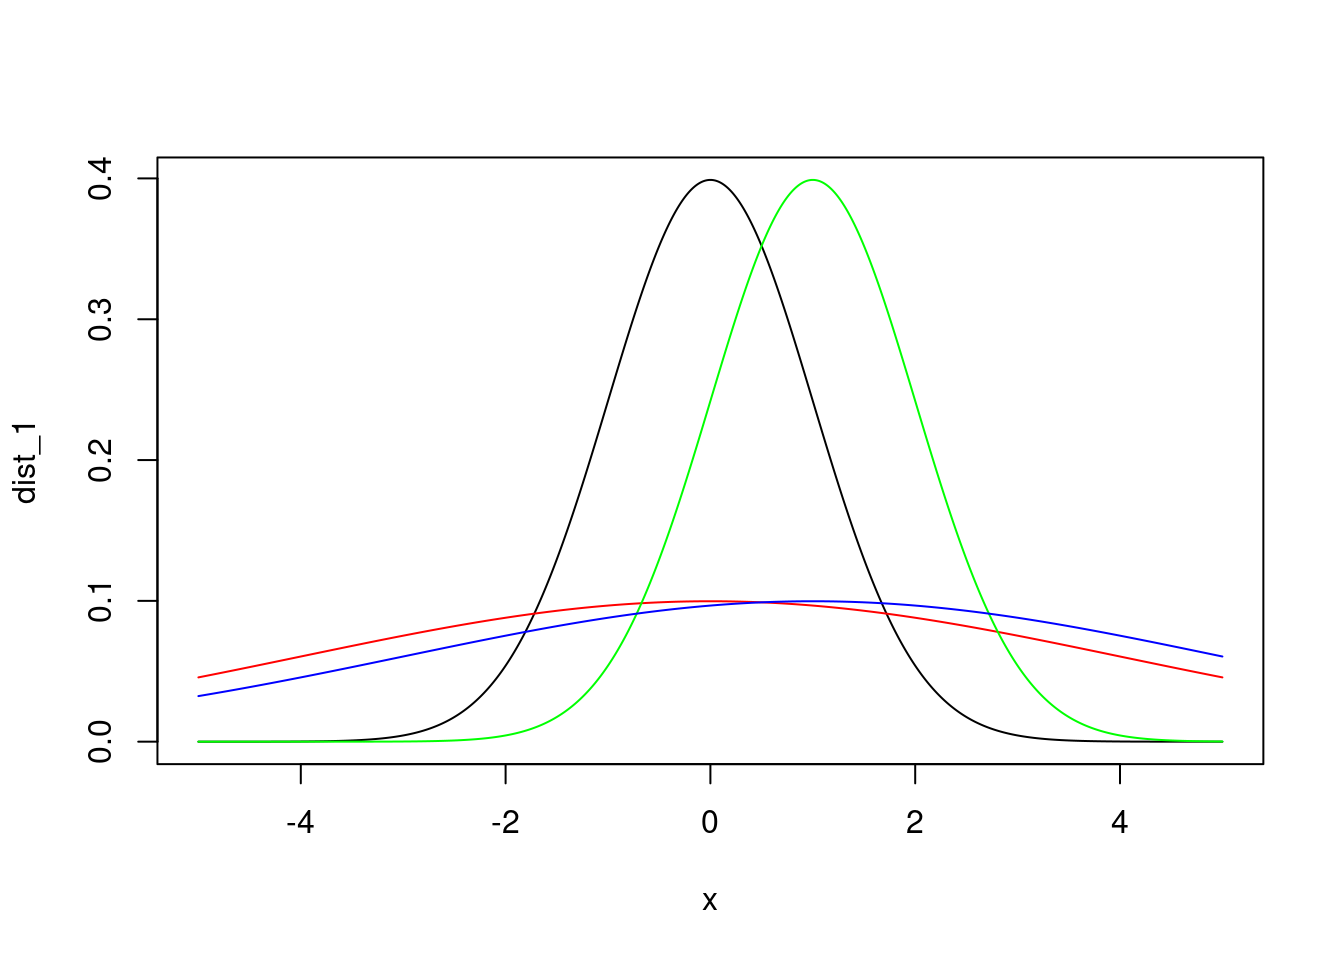
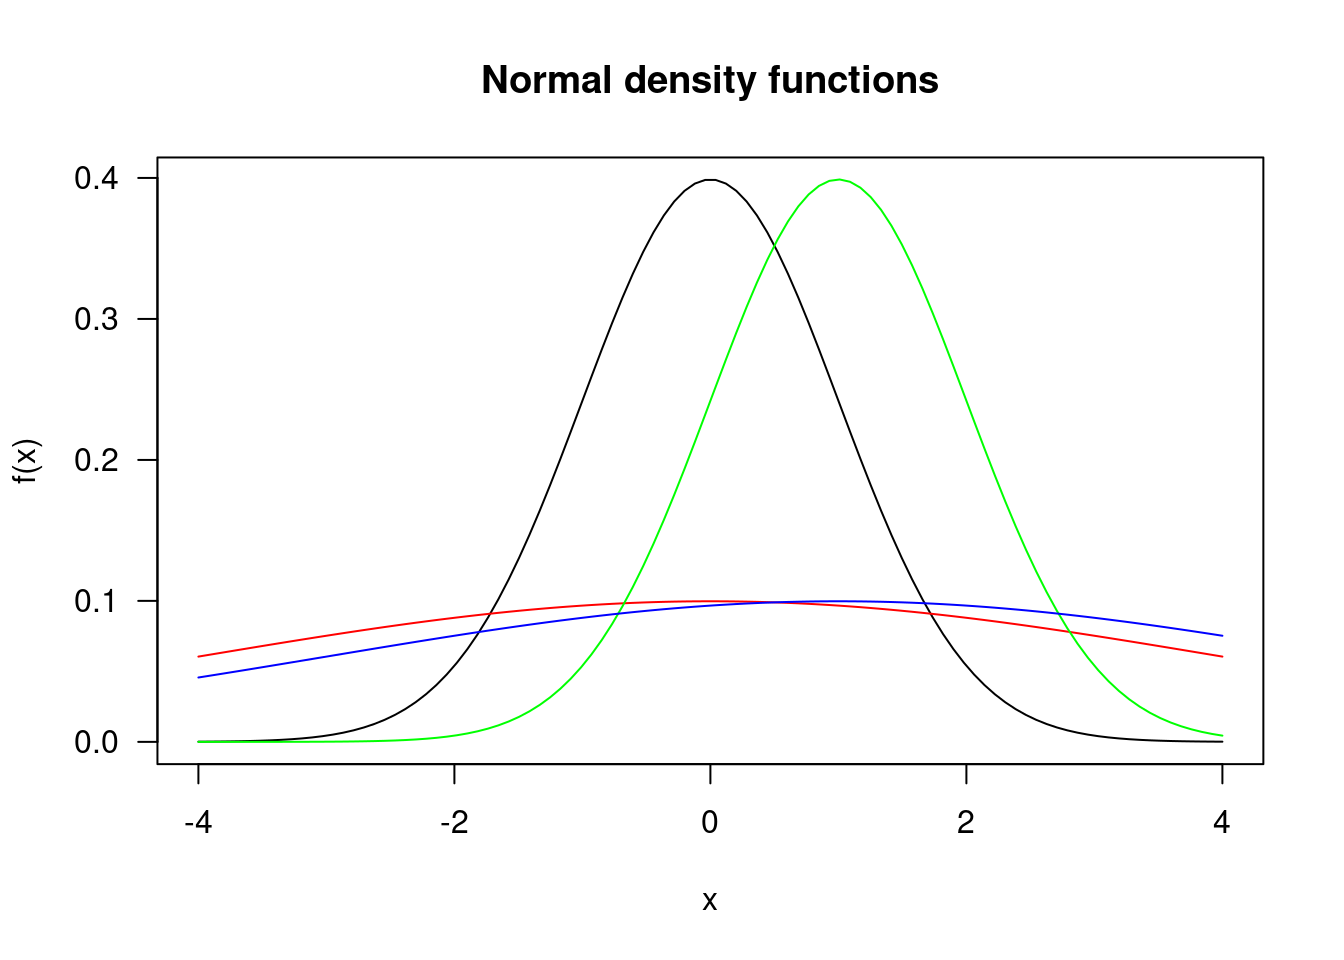
commit equations

diff --git a/docs/index.html b/docs/index.html
@@ -24,7 +24,7 @@
 <meta name="author" content="Katherine Wilson" />
 
 
-<meta name="date" content="2022-01-18" />
+<meta name="date" content="2022-01-19" />
 
   <meta name="viewport" content="width=device-width, initial-scale=1" />
   <meta name="apple-mobile-web-app-capable" content="yes" />
@@ -165,7 +165,7 @@ code span.wa { color: #60a0b0; font-weight: bold; font-style: italic; } /* Warni
 <div id="header">
 <h1 class="title">NonParametric Stats</h1>
 <p class="author"><em>Katherine Wilson</em></p>
-<p class="date"><em>2022-01-18</em></p>
+<p class="date"><em>2022-01-19</em></p>
 </div>
 <div id="hypothesis-testing" class="section level1" number="1">
 <h1><span class="header-section-number">1</span> Hypothesis Testing</h1>
@@ -173,23 +173,113 @@ code span.wa { color: #60a0b0; font-weight: bold; font-style: italic; } /* Warni
 X \sim N(\mu,\sigma^2), f(x) = \frac{1}{\sqrt{2\pi\sigma}}e-\frac{(x-\mu)^2}{2\sigma^2}, F(x) = \int_{-\infty}^{x} \frac{1}{\sqrt{2\pi\sigma}}e\frac{-(t-\mu)^2}{2\sigma^2}dt
 \end{equation}\]</span></p>
 <p><strong>Normal Distributions</strong></p>
-<div class="sourceCode" id="cb1"><pre class="sourceCode r"><code class="sourceCode r"><span id="cb1-1"><a href="index.html#cb1-1" aria-hidden="true" tabindex="-1"></a>x <span class="ot">&lt;-</span> <span class="fu">seq</span>(<span class="sc">-</span><span class="dv">5</span>,<span class="dv">5</span>, <span class="at">length=</span><span class="dv">1000</span>)</span>
-<span id="cb1-2"><a href="index.html#cb1-2" aria-hidden="true" tabindex="-1"></a>dist_1 <span class="ot">&lt;-</span> <span class="fu">dnorm</span>(x, <span class="at">mean=</span><span class="dv">0</span>, <span class="at">sd=</span><span class="dv">1</span>)</span>
-<span id="cb1-3"><a href="index.html#cb1-3" aria-hidden="true" tabindex="-1"></a>dist_2 <span class="ot">&lt;-</span> <span class="fu">dnorm</span>(x, <span class="at">mean=</span><span class="dv">0</span>, <span class="at">sd=</span><span class="dv">4</span>)</span>
-<span id="cb1-4"><a href="index.html#cb1-4" aria-hidden="true" tabindex="-1"></a>dist_3 <span class="ot">&lt;-</span> <span class="fu">dnorm</span>(x, <span class="at">mean=</span><span class="dv">1</span>, <span class="at">sd=</span><span class="dv">1</span>)</span>
-<span id="cb1-5"><a href="index.html#cb1-5" aria-hidden="true" tabindex="-1"></a>dist_4 <span class="ot">&lt;-</span> <span class="fu">dnorm</span>(x, <span class="at">mean=</span><span class="dv">1</span>, <span class="at">sd =</span><span class="dv">4</span>)</span>
-<span id="cb1-6"><a href="index.html#cb1-6" aria-hidden="true" tabindex="-1"></a><span class="fu">plot</span>(x, dist_1, <span class="at">type=</span><span class="st">&quot;l&quot;</span>, <span class="at">lwd=</span><span class="dv">1</span>, <span class="at">col =</span> <span class="st">&quot;black&quot;</span>)</span>
-<span id="cb1-7"><a href="index.html#cb1-7" aria-hidden="true" tabindex="-1"></a><span class="fu">lines</span>(x, dist_2, <span class="at">type =</span> <span class="st">&quot;l&quot;</span>, <span class="at">col =</span> <span class="st">&quot;red&quot;</span>)</span>
-<span id="cb1-8"><a href="index.html#cb1-8" aria-hidden="true" tabindex="-1"></a><span class="fu">lines</span>(x, dist_3, <span class="at">type =</span> <span class="st">&quot;l&quot;</span>, <span class="at">col =</span> <span class="st">&quot;green&quot;</span>)</span>
-<span id="cb1-9"><a href="index.html#cb1-9" aria-hidden="true" tabindex="-1"></a><span class="fu">lines</span>(x, dist_4, <span class="at">type =</span> <span class="st">&quot;l&quot;</span>, <span class="at">col =</span> <span class="st">&quot;blue&quot;</span>)</span></code></pre></div>
+<div class="sourceCode" id="cb1"><pre class="sourceCode r"><code class="sourceCode r"><span id="cb1-1"><a href="index.html#cb1-1" aria-hidden="true" tabindex="-1"></a>a <span class="ot">=</span><span class="dv">0</span></span>
+<span id="cb1-2"><a href="index.html#cb1-2" aria-hidden="true" tabindex="-1"></a>b<span class="ot">=</span><span class="dv">1</span></span>
+<span id="cb1-3"><a href="index.html#cb1-3" aria-hidden="true" tabindex="-1"></a>lx<span class="ot">=</span><span class="dv">100</span></span>
+<span id="cb1-4"><a href="index.html#cb1-4" aria-hidden="true" tabindex="-1"></a>x<span class="ot">=</span><span class="fu">seq</span>(<span class="sc">-</span><span class="dv">4</span>,<span class="dv">4</span>,<span class="at">length=</span>lx)</span>
+<span id="cb1-5"><a href="index.html#cb1-5" aria-hidden="true" tabindex="-1"></a>fx <span class="ot">=</span> <span class="fu">dnorm</span>(x,a,b)</span>
+<span id="cb1-6"><a href="index.html#cb1-6" aria-hidden="true" tabindex="-1"></a>fx</span></code></pre></div>
+<pre><code>##   [1] 0.0001338302 0.0001842953 0.0002521381 0.0003427099 0.0004627846
+##   [6] 0.0006208623 0.0008275148 0.0010957722 0.0014415473 0.0018840898
+##  [11] 0.0024464615 0.0031560163 0.0040448664 0.0051503080 0.0065151783
+##  [16] 0.0081881065 0.0102236211 0.0126820683 0.0156292995 0.0191360817
+##  [21] 0.0232771927 0.0281301641 0.0337736510 0.0402854146 0.0477399263
+##  [26] 0.0562056185 0.0657418315 0.0763955298 0.0881978860 0.1011608535
+##  [31] 0.1152738702 0.1305008512 0.1467776382 0.1640100747 0.1820728700
+##  [36] 0.2008093962 0.2200325354 0.2395266587 0.2590507715 0.2783428081
+##  [41] 0.2971250031 0.3151102096 0.3320089800 0.3475371752 0.3614238299
+##  [46] 0.3734189738 0.3833010942 0.3908839312 0.3960223134 0.3986167793
+##  [51] 0.3986167793 0.3960223134 0.3908839312 0.3833010942 0.3734189738
+##  [56] 0.3614238299 0.3475371752 0.3320089800 0.3151102096 0.2971250031
+##  [61] 0.2783428081 0.2590507715 0.2395266587 0.2200325354 0.2008093962
+##  [66] 0.1820728700 0.1640100747 0.1467776382 0.1305008512 0.1152738702
+##  [71] 0.1011608535 0.0881978860 0.0763955298 0.0657418315 0.0562056185
+##  [76] 0.0477399263 0.0402854146 0.0337736510 0.0281301641 0.0232771927
+##  [81] 0.0191360817 0.0156292995 0.0126820683 0.0102236211 0.0081881065
+##  [86] 0.0065151783 0.0051503080 0.0040448664 0.0031560163 0.0024464615
+##  [91] 0.0018840898 0.0014415473 0.0010957722 0.0008275148 0.0006208623
+##  [96] 0.0004627846 0.0003427099 0.0002521381 0.0001842953 0.0001338302</code></pre>
+<div class="sourceCode" id="cb3"><pre class="sourceCode r"><code class="sourceCode r"><span id="cb3-1"><a href="index.html#cb3-1" aria-hidden="true" tabindex="-1"></a>bx <span class="ot">=</span> <span class="dv">1</span></span>
+<span id="cb3-2"><a href="index.html#cb3-2" aria-hidden="true" tabindex="-1"></a>dbx<span class="ot">=</span><span class="fu">dnorm</span>(bx,a,b)</span>
+<span id="cb3-3"><a href="index.html#cb3-3" aria-hidden="true" tabindex="-1"></a>dbx</span></code></pre></div>
+<pre><code>## [1] 0.2419707</code></pre>
+<div class="sourceCode" id="cb5"><pre class="sourceCode r"><code class="sourceCode r"><span id="cb5-1"><a href="index.html#cb5-1" aria-hidden="true" tabindex="-1"></a><span class="fu">plot</span>(x,fx, <span class="at">type =</span> <span class="st">&quot;l&quot;</span>, <span class="at">xlab =</span> <span class="st">&quot;x&quot;</span>, <span class="at">ylab =</span> <span class="st">&quot;f(x)&quot;</span>, <span class="at">main =</span> <span class="st">&quot;Normal density functions&quot;</span>,</span>
+<span id="cb5-2"><a href="index.html#cb5-2" aria-hidden="true" tabindex="-1"></a>     <span class="at">las=</span> <span class="dv">1</span>)</span>
+<span id="cb5-3"><a href="index.html#cb5-3" aria-hidden="true" tabindex="-1"></a>dist_2 <span class="ot">&lt;-</span> <span class="fu">dnorm</span>(x, <span class="at">mean=</span><span class="dv">0</span>, <span class="at">sd=</span><span class="dv">4</span>)</span>
+<span id="cb5-4"><a href="index.html#cb5-4" aria-hidden="true" tabindex="-1"></a>dist_3 <span class="ot">&lt;-</span> <span class="fu">dnorm</span>(x, <span class="at">mean=</span><span class="dv">1</span>, <span class="at">sd=</span><span class="dv">1</span>)</span>
+<span id="cb5-5"><a href="index.html#cb5-5" aria-hidden="true" tabindex="-1"></a>dist_4 <span class="ot">&lt;-</span> <span class="fu">dnorm</span>(x, <span class="at">mean=</span><span class="dv">1</span>, <span class="at">sd =</span><span class="dv">4</span>)</span>
+<span id="cb5-6"><a href="index.html#cb5-6" aria-hidden="true" tabindex="-1"></a><span class="fu">lines</span>(x, dist_2, <span class="at">type =</span> <span class="st">&quot;l&quot;</span>, <span class="at">col =</span> <span class="st">&quot;red&quot;</span>)</span>
+<span id="cb5-7"><a href="index.html#cb5-7" aria-hidden="true" tabindex="-1"></a><span class="fu">lines</span>(x, dist_3, <span class="at">type =</span> <span class="st">&quot;l&quot;</span>, <span class="at">col =</span> <span class="st">&quot;green&quot;</span>)</span>
+<span id="cb5-8"><a href="index.html#cb5-8" aria-hidden="true" tabindex="-1"></a><span class="fu">lines</span>(x, dist_4, <span class="at">type =</span> <span class="st">&quot;l&quot;</span>, <span class="at">col =</span> <span class="st">&quot;blue&quot;</span>)</span></code></pre></div>
 <p><img src="bookdownproj_files/figure-html/unnamed-chunk-1-1.png" width="672" /></p>
 <p><span class="math display">\[\begin{equation}
 F(x) = P(X\le x) = 1 - P(X&gt;x)
 \end{equation}\]</span></p>
-<div class="sourceCode" id="cb2"><pre class="sourceCode r"><code class="sourceCode r"><span id="cb2-1"><a href="index.html#cb2-1" aria-hidden="true" tabindex="-1"></a><span class="fu">dnorm</span>(<span class="at">x=</span><span class="dv">0</span>, <span class="at">mean=</span><span class="dv">0</span>, <span class="at">sd=</span><span class="dv">1</span>)</span></code></pre></div>
-<pre><code>## [1] 0.3989423</code></pre>
-<div class="sourceCode" id="cb4"><pre class="sourceCode r"><code class="sourceCode r"><span id="cb4-1"><a href="index.html#cb4-1" aria-hidden="true" tabindex="-1"></a><span class="fu">dnorm</span>(<span class="dv">0</span>,<span class="dv">0</span>,<span class="dv">2</span>)</span></code></pre></div>
-<pre><code>## [1] 0.1994711</code></pre>
+<p>when lower.tail == TRUE, probabiltiies are p[X&lt;x]</p>
+<pre class="undefined"><code>## density under the curve
+dnorm(x=0, mean=0, sd=1)
+dnorm(0,0,2)
+dnorm(0,1,1)
+dnorm(0,1,2)
+## probability
+pnorm(0,0,1)
+pnorm(0,0,2)
+pnorm(0,1,1)
+pnorm(0,1,2)
+</code></pre>
+<div class="sourceCode" id="cb7"><pre class="sourceCode r"><code class="sourceCode r"><span id="cb7-1"><a href="index.html#cb7-1" aria-hidden="true" tabindex="-1"></a>a<span class="ot">=</span><span class="dv">0</span></span>
+<span id="cb7-2"><a href="index.html#cb7-2" aria-hidden="true" tabindex="-1"></a>b<span class="ot">=</span><span class="dv">1</span></span>
+<span id="cb7-3"><a href="index.html#cb7-3" aria-hidden="true" tabindex="-1"></a>lx<span class="ot">=</span><span class="dv">100</span></span>
+<span id="cb7-4"><a href="index.html#cb7-4" aria-hidden="true" tabindex="-1"></a>x<span class="ot">=</span><span class="fu">seq</span>(<span class="sc">-</span><span class="dv">4</span>,<span class="dv">4</span>,<span class="at">length=</span>lx)</span>
+<span id="cb7-5"><a href="index.html#cb7-5" aria-hidden="true" tabindex="-1"></a>fx<span class="ot">=</span><span class="fu">dnorm</span>(x,a,b)</span>
+<span id="cb7-6"><a href="index.html#cb7-6" aria-hidden="true" tabindex="-1"></a></span>
+<span id="cb7-7"><a href="index.html#cb7-7" aria-hidden="true" tabindex="-1"></a>bx<span class="ot">=</span><span class="dv">1</span></span>
+<span id="cb7-8"><a href="index.html#cb7-8" aria-hidden="true" tabindex="-1"></a>dbx<span class="ot">=</span><span class="fu">dnorm</span>(bx,a,b)</span>
+<span id="cb7-9"><a href="index.html#cb7-9" aria-hidden="true" tabindex="-1"></a></span>
+<span id="cb7-10"><a href="index.html#cb7-10" aria-hidden="true" tabindex="-1"></a><span class="fu">plot</span>(x,fx,<span class="at">type=</span><span class="st">&quot;l&quot;</span>,<span class="at">lwd=</span><span class="dv">2</span>,<span class="at">xlab=</span><span class="st">&quot;x&quot;</span>,<span class="at">ylab=</span><span class="st">&quot;Density&quot;</span>,<span class="at">main=</span><span class="st">&quot;N(0,1)&quot;</span>,<span class="at">las=</span><span class="dv">1</span>,<span class="at">xaxt=</span><span class="st">&quot;n&quot;</span>)</span>
+<span id="cb7-11"><a href="index.html#cb7-11" aria-hidden="true" tabindex="-1"></a><span class="fu">segments</span>(bx,<span class="dv">0</span>,bx,dbx,<span class="at">lty=</span><span class="dv">3</span>)</span>
+<span id="cb7-12"><a href="index.html#cb7-12" aria-hidden="true" tabindex="-1"></a>sx<span class="ot">=</span><span class="fu">seq</span>(<span class="sc">-</span><span class="dv">4</span>,bx,<span class="at">length=</span>lx)</span>
+<span id="cb7-13"><a href="index.html#cb7-13" aria-hidden="true" tabindex="-1"></a><span class="fu">polygon</span>(<span class="fu">c</span>(sx,<span class="fu">rev</span>(sx)),<span class="fu">c</span>(<span class="fu">dnorm</span>(sx,a,b),<span class="fu">rep</span>(<span class="dv">0</span>,lx)),<span class="at">density=</span><span class="dv">2</span>,<span class="at">border=</span><span class="cn">NA</span>,<span class="at">lty=</span><span class="dv">3</span>)</span>
+<span id="cb7-14"><a href="index.html#cb7-14" aria-hidden="true" tabindex="-1"></a></span>
+<span id="cb7-15"><a href="index.html#cb7-15" aria-hidden="true" tabindex="-1"></a><span class="fu">text</span>(<span class="sc">-</span><span class="fl">0.5</span>,<span class="fl">0.1</span>,<span class="fu">expression</span>(<span class="fu">P</span>(X<span class="sc">&lt;=</span>z[<span class="dv">1</span><span class="sc">-</span>alpha])<span class="sc">==</span><span class="dv">1</span><span class="sc">-</span>alpha))</span>
+<span id="cb7-16"><a href="index.html#cb7-16" aria-hidden="true" tabindex="-1"></a><span class="fu">abline</span>(<span class="at">h=</span><span class="dv">0</span>,<span class="at">lty=</span><span class="dv">3</span>)</span>
+<span id="cb7-17"><a href="index.html#cb7-17" aria-hidden="true" tabindex="-1"></a><span class="fu">axis</span>(<span class="dv">1</span>,<span class="at">at=</span>bx,<span class="at">label=</span><span class="fu">expression</span>(z[<span class="dv">1</span><span class="sc">-</span>alpha]))</span>
+<span id="cb7-18"><a href="index.html#cb7-18" aria-hidden="true" tabindex="-1"></a></span>
+<span id="cb7-19"><a href="index.html#cb7-19" aria-hidden="true" tabindex="-1"></a>sx<span class="ot">=</span><span class="fu">seq</span>(bx,<span class="dv">4</span>,<span class="at">length=</span>lx)</span>
+<span id="cb7-20"><a href="index.html#cb7-20" aria-hidden="true" tabindex="-1"></a><span class="fu">polygon</span>(<span class="fu">c</span>(sx,<span class="fu">rev</span>(sx)),<span class="fu">c</span>(<span class="fu">dnorm</span>(sx,a,b),<span class="fu">rep</span>(<span class="dv">0</span>,lx)),<span class="at">density=</span><span class="dv">3</span>,<span class="at">border=</span><span class="cn">NA</span>,</span>
+<span id="cb7-21"><a href="index.html#cb7-21" aria-hidden="true" tabindex="-1"></a><span class="at">angle=</span><span class="sc">-</span><span class="dv">45</span>,<span class="at">lty=</span><span class="dv">3</span>)</span>
+<span id="cb7-22"><a href="index.html#cb7-22" aria-hidden="true" tabindex="-1"></a><span class="fu">text</span>(<span class="fl">2.5</span>,<span class="fl">0.1</span>,<span class="fu">expression</span>(<span class="fu">P</span>(X<span class="sc">&gt;</span>z[<span class="dv">1</span><span class="sc">-</span>alpha])<span class="sc">==</span>alpha))</span></code></pre></div>
+<p><img src="bookdownproj_files/figure-html/unnamed-chunk-3-1.png" width="672" /></p>
+<p><strong>Power</strong></p>
+<p>Probability of rejecting <span class="math inline">\(H_0\)</span> when it is true is type I error (falsely reject), aka significance of the test aka <span class="math inline">\(\alpha\)</span>. Probability of not reject H_0 when it is false is a type II error, <span class="math inline">\(\beta\)</span>. Power of test is <span class="math inline">\(1-\beta\)</span>.</p>
+<p><strong>Confidence Intervals</strong></p>
+<p>Confidence set with a confidence coefficient of <span class="math inline">\(1-\alpha\)</span> is the set.</p>
+<p><strong>Parametric Methods</strong></p>
+<p>Parametric distributions qith populations</p>
+<p><span class="math display">\[\begin{equation}
+N(\mu, \sigma^2),binomial(n,p)
+\end{equation}\]</span></p>
+<div class="sourceCode" id="cb8"><pre class="sourceCode r"><code class="sourceCode r"><span id="cb8-1"><a href="index.html#cb8-1" aria-hidden="true" tabindex="-1"></a>n<span class="ot">=</span><span class="dv">30</span></span>
+<span id="cb8-2"><a href="index.html#cb8-2" aria-hidden="true" tabindex="-1"></a>x<span class="ot">=</span><span class="fu">rnorm</span>(n,<span class="at">mean=</span><span class="dv">0</span>,<span class="at">sd=</span><span class="dv">1</span>)</span>
+<span id="cb8-3"><a href="index.html#cb8-3" aria-hidden="true" tabindex="-1"></a><span class="fu">sort</span>(x)</span></code></pre></div>
+<pre><code>##  [1] -1.877529107 -1.797071215 -1.768705533 -1.363014203 -1.248630667
+##  [6] -1.242085933 -1.151953407 -0.820460938 -0.743315457 -0.457155310
+## [11] -0.326805921 -0.304780561 -0.134309652 -0.007030645  0.099313116
+## [16]  0.153559907  0.187111374  0.225744125  0.427586572  0.600469377
+## [21]  0.627458330  0.630439729  0.704010012  0.813410184  0.960661602
+## [26]  0.967466365  1.036644426  1.290539283  1.355981008  1.396956617</code></pre>
+<div class="sourceCode" id="cb10"><pre class="sourceCode r"><code class="sourceCode r"><span id="cb10-1"><a href="index.html#cb10-1" aria-hidden="true" tabindex="-1"></a>xbar<span class="ot">=</span><span class="fu">mean</span>(x)</span>
+<span id="cb10-2"><a href="index.html#cb10-2" aria-hidden="true" tabindex="-1"></a>sdx<span class="ot">=</span><span class="fu">sd</span>(x)</span></code></pre></div>
+<p><strong>One sided H_0</strong></p>
+<p><span class="math display">\[\begin{equation}
+H_0 : \mu = \mu_0 vs. H_1: \mu &gt; Mu_0\\
+T = \frac{\sqrt(x-\mu_0)}{\sigma} \sim t distribution with n-1 degrees of freedom \\
+Reject H_0 if t &gt; t_{n-1,1-\alpha} \\
+Type I error: \alpha = P_{\mu_o}(T&gt;t_{n-1,1-\alpha}) \\
+Acceptance region: T \le t_{n-1,1-\alpha}\\
+1- \alpha = P_{\mu_0}(\frac{\sqrt{n}(\bar{X}-\mu_0)}{\hat\sigma}) \le t_{n-1,1-\alpha}\\
+= P_{\mu_0}(\bar{X} - t_{n-1,1-\alpha}\frac{\hat\sigma}{\sqrt{n}} \le \mu_0)
+\end{equation}\]</span></p>
 
 </div>
             </section>

diff --git a/docs/404.html b/docs/404.html
@@ -24,7 +24,7 @@
 <meta name="author" content="Katherine Wilson" />
 
 
-<meta name="date" content="2022-01-18" />
+<meta name="date" content="2022-01-19" />
 
   <meta name="viewport" content="width=device-width, initial-scale=1" />
   <meta name="apple-mobile-web-app-capable" content="yes" />
@@ -55,6 +55,70 @@
 <script src="libs/anchor-sections-1.0.1/anchor-sections.js"></script>
 
 
+<style type="text/css">
+pre > code.sourceCode { white-space: pre; position: relative; }
+pre > code.sourceCode > span { display: inline-block; line-height: 1.25; }
+pre > code.sourceCode > span:empty { height: 1.2em; }
+.sourceCode { overflow: visible; }
+code.sourceCode > span { color: inherit; text-decoration: inherit; }
+pre.sourceCode { margin: 0; }
+@media screen {
+div.sourceCode { overflow: auto; }
+}
+@media print {
+pre > code.sourceCode { white-space: pre-wrap; }
+pre > code.sourceCode > span { text-indent: -5em; padding-left: 5em; }
+}
+pre.numberSource code
+  { counter-reset: source-line 0; }
+pre.numberSource code > span
+  { position: relative; left: -4em; counter-increment: source-line; }
+pre.numberSource code > span > a:first-child::before
+  { content: counter(source-line);
+    position: relative; left: -1em; text-align: right; vertical-align: baseline;
+    border: none; display: inline-block;
+    -webkit-touch-callout: none; -webkit-user-select: none;
+    -khtml-user-select: none; -moz-user-select: none;
+    -ms-user-select: none; user-select: none;
+    padding: 0 4px; width: 4em;
+    color: #aaaaaa;
+  }
+pre.numberSource { margin-left: 3em; border-left: 1px solid #aaaaaa;  padding-left: 4px; }
+div.sourceCode
+  {   }
+@media screen {
+pre > code.sourceCode > span > a:first-child::before { text-decoration: underline; }
+}
+code span.al { color: #ff0000; font-weight: bold; } /* Alert */
+code span.an { color: #60a0b0; font-weight: bold; font-style: italic; } /* Annotation */
+code span.at { color: #7d9029; } /* Attribute */
+code span.bn { color: #40a070; } /* BaseN */
+code span.bu { } /* BuiltIn */
+code span.cf { color: #007020; font-weight: bold; } /* ControlFlow */
+code span.ch { color: #4070a0; } /* Char */
+code span.cn { color: #880000; } /* Constant */
+code span.co { color: #60a0b0; font-style: italic; } /* Comment */
+code span.cv { color: #60a0b0; font-weight: bold; font-style: italic; } /* CommentVar */
+code span.do { color: #ba2121; font-style: italic; } /* Documentation */
+code span.dt { color: #902000; } /* DataType */
+code span.dv { color: #40a070; } /* DecVal */
+code span.er { color: #ff0000; font-weight: bold; } /* Error */
+code span.ex { } /* Extension */
+code span.fl { color: #40a070; } /* Float */
+code span.fu { color: #06287e; } /* Function */
+code span.im { } /* Import */
+code span.in { color: #60a0b0; font-weight: bold; font-style: italic; } /* Information */
+code span.kw { color: #007020; font-weight: bold; } /* Keyword */
+code span.op { color: #666666; } /* Operator */
+code span.ot { color: #007020; } /* Other */
+code span.pp { color: #bc7a00; } /* Preprocessor */
+code span.sc { color: #4070a0; } /* SpecialChar */
+code span.ss { color: #bb6688; } /* SpecialString */
+code span.st { color: #4070a0; } /* String */
+code span.va { color: #19177c; } /* Variable */
+code span.vs { color: #4070a0; } /* VerbatimString */
+code span.wa { color: #60a0b0; font-weight: bold; font-style: italic; } /* Warning */
+</style>
 
 
 <link rel="stylesheet" href="style.css" type="text/css" />
@@ -164,6 +228,20 @@ gitbook.start({
 });
 </script>
 
+<!-- dynamically load mathjax for compatibility with self-contained -->
+<script>
+  (function () {
+    var script = document.createElement("script");
+    script.type = "text/javascript";
+    var src = "true";
+    if (src === "" || src === "true") src = "https://mathjax.rstudio.com/latest/MathJax.js?config=TeX-MML-AM_CHTML";
+    if (location.protocol !== "file:")
+      if (/^https?:/.test(src))
+        src = src.replace(/^https?:/, '');
+    script.src = src;
+    document.getElementsByTagName("head")[0].appendChild(script);
+  })();
+</script>
 </body>
 
 </html>
